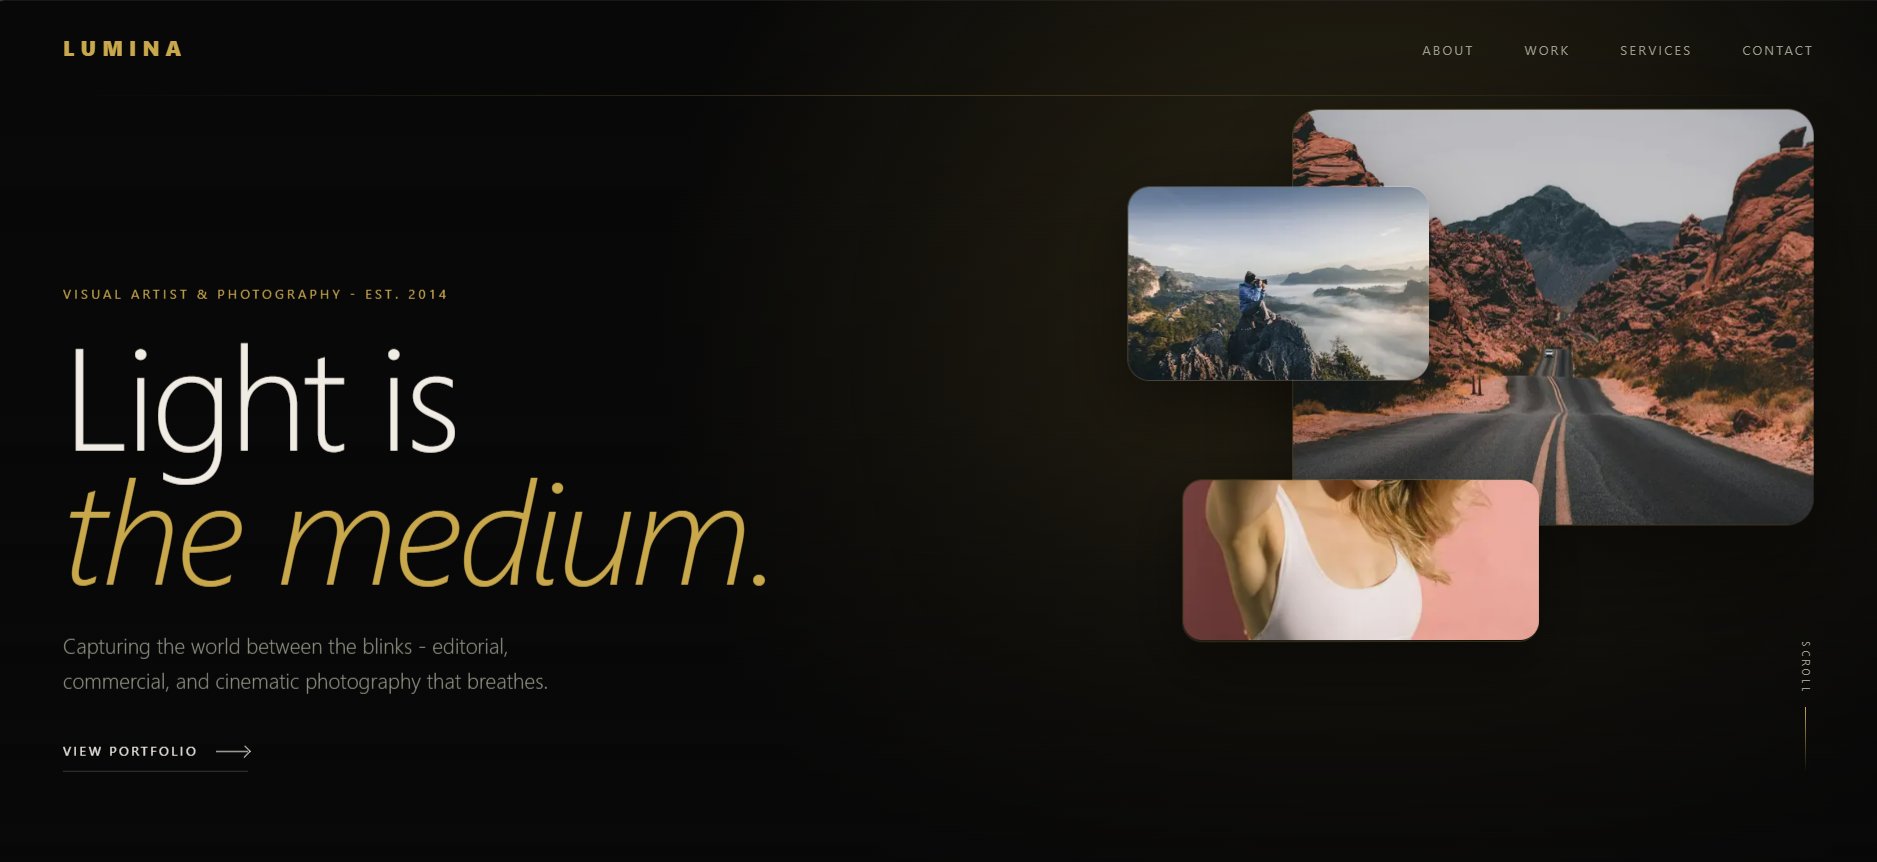
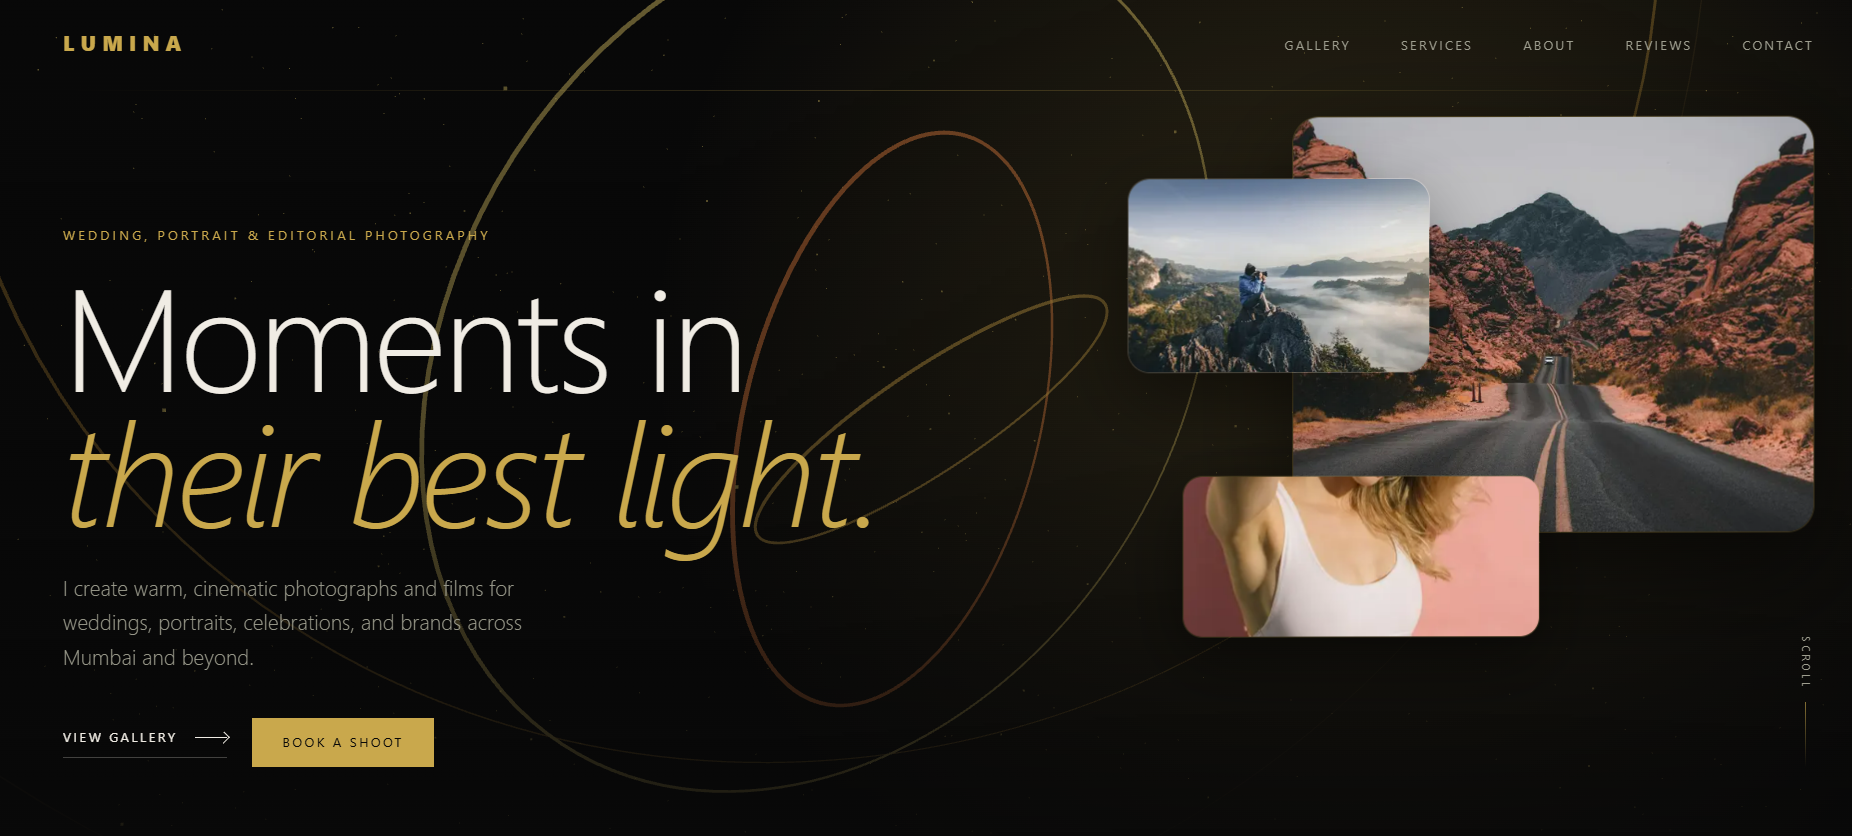
fix: correct image filename for photographer portfolio

diff --git a/src/components/Projects.jsx b/src/components/Projects.jsx
@@ -169,7 +169,7 @@ const Projects = () => {
       description:
         "Let the work speak. A minimalist, immersive portfolio that puts every pixel where it belongs — on the photography. Dynamic galleries, butter-smooth transitions, zero distractions.",
       image:
-        "/images/project/photographyPortfolio.png",
+        "/images/project/photographerPortfolio.png",
       technologies: [
         "React.js",
         "Tailwind",